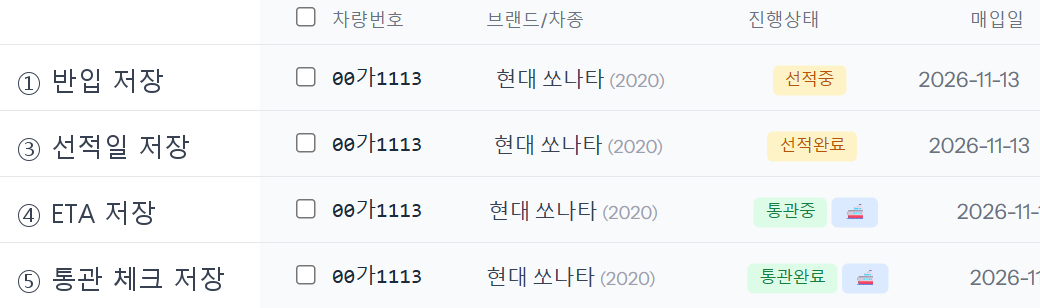
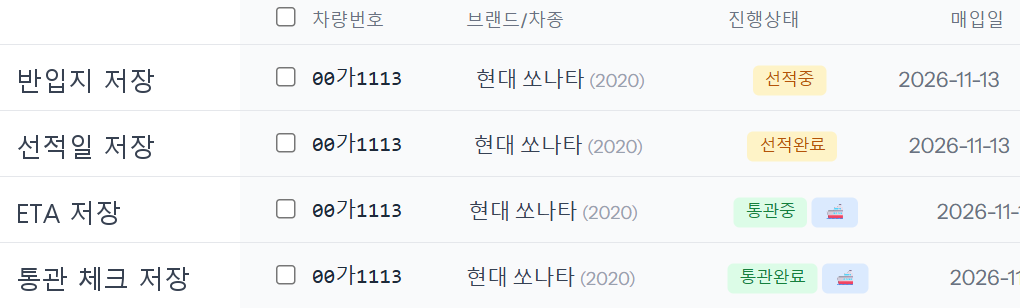
fix(guides): 1묶음 그림·문장 대조 수정 — 정산은 인코텀즈 저장 때 생성(실측), 단계 번호·잘린 줄·송금 뱃지
- monthly-payout: 「다 받으면 정산이 생긴다」 → 완납 + 인코텀즈 저장 때 생성(정산 #102 생성 시각 = 수출 탭 인코텀즈 저장 시각)
- export-tab: 알아 둘 것에 「완납인데 정산이 안 보이면 인코텀즈 확인」, 진행상태 모음 그림의 단계 번호 제거
- monthly-payout 11.png 차량 줄 포함, 10.png 실제 송금 뱃지 가장자리 제거, 06.png 아래 배경 제거

diff --git a/resources/guides/export-tab/index.html b/resources/guides/export-tab/index.html
@@ -98,6 +98,7 @@
     <h3>알아 둘 것</h3>
     <ul>
         <li>단계 순서: 반입지나 수출신고서가 있으면 「선적중」 → 여기에 선적일이 들어가면 「선적완료」 → ETA까지 들어가면 「통관중」 → 통관 완료에 체크하면 「통관완료」. 선적일·ETA만 넣고 반입지·신고서가 없으면 단계가 넘어가지 않습니다.</li>
+        <li>판매 대금을 다 받은 차는 인코텀즈를 넣고 저장하는 순간 담당자 정산이 「대기」로 생깁니다(예시 차량 실측). 완납인데 정산 처리에 차가 안 보이면 인코텀즈가 비어 있지 않은지 먼저 봅니다.</li>
         <li>🚢 운항중·⚓ 도착예정은 진행상태와 따로 붙는 표시입니다. 선적일과 ETA로 정해지고, ETA 날부터 도착예정으로 바뀝니다.</li>
         <li>바이어가 보낸 돈이 회사 기준 입금률보다 적으면 수출 단계로 저장할 수 없습니다(예시 차량은 완납이라 해당 없음). 씬 「입금률 게이트에 막혔을 때」를 보세요.</li>
         <li>같은 배에 탄 여러 대의 선적일·ETA·선박명은 차량 관리 목록의 [선적일·ETA·VSL 일괄]로 한 번에 넣을 수 있습니다. 씬 「선적일·ETA·번호 일괄 기입」을 보세요.</li>

diff --git a/resources/guides/monthly-payout/index.html b/resources/guides/monthly-payout/index.html
@@ -8,7 +8,7 @@
 <div class="gd-step">
     <div class="gd-n">1단계</div>
     <h3>정산 처리 → 달을 고르고 차를 찾습니다</h3>
-    <p>판매 대금을 다 받은 차는 정산이 저절로 「대기」로 생깁니다. 왼쪽 메뉴 「정산 처리」에서 달을 고르고 차량번호로 찾습니다.</p>
+    <p>판매 대금을 다 받았고 수출 탭에 인코텀즈(운임 조건)가 들어간 차는 정산이 저절로 「대기」로 생깁니다. 예시 차량은 판매 입금 때가 아니라 수출 탭에서 인코텀즈를 저장한 순간 생겼습니다. 왼쪽 메뉴 「정산 처리」에서 달을 고르고 차량번호로 찾습니다.</p>
     <ul>
         <li>달 칸의 「2026-11 정산 → 2026-12-10 지급」은 11월 정산분을 12월 10일에 지급한다는 뜻입니다. 매달 10일을 기준으로 그 전 정산은 앞 달에 들어갑니다.</li>
         <li>줄에는 정산방식(예시: 건당 ₩200,000), 매입가, 총마진, 마진율, 정산액, 실지급액, 상태가 보입니다. 예시는 총마진 ₩2,858,400, 상태 「대기」입니다.</li>
